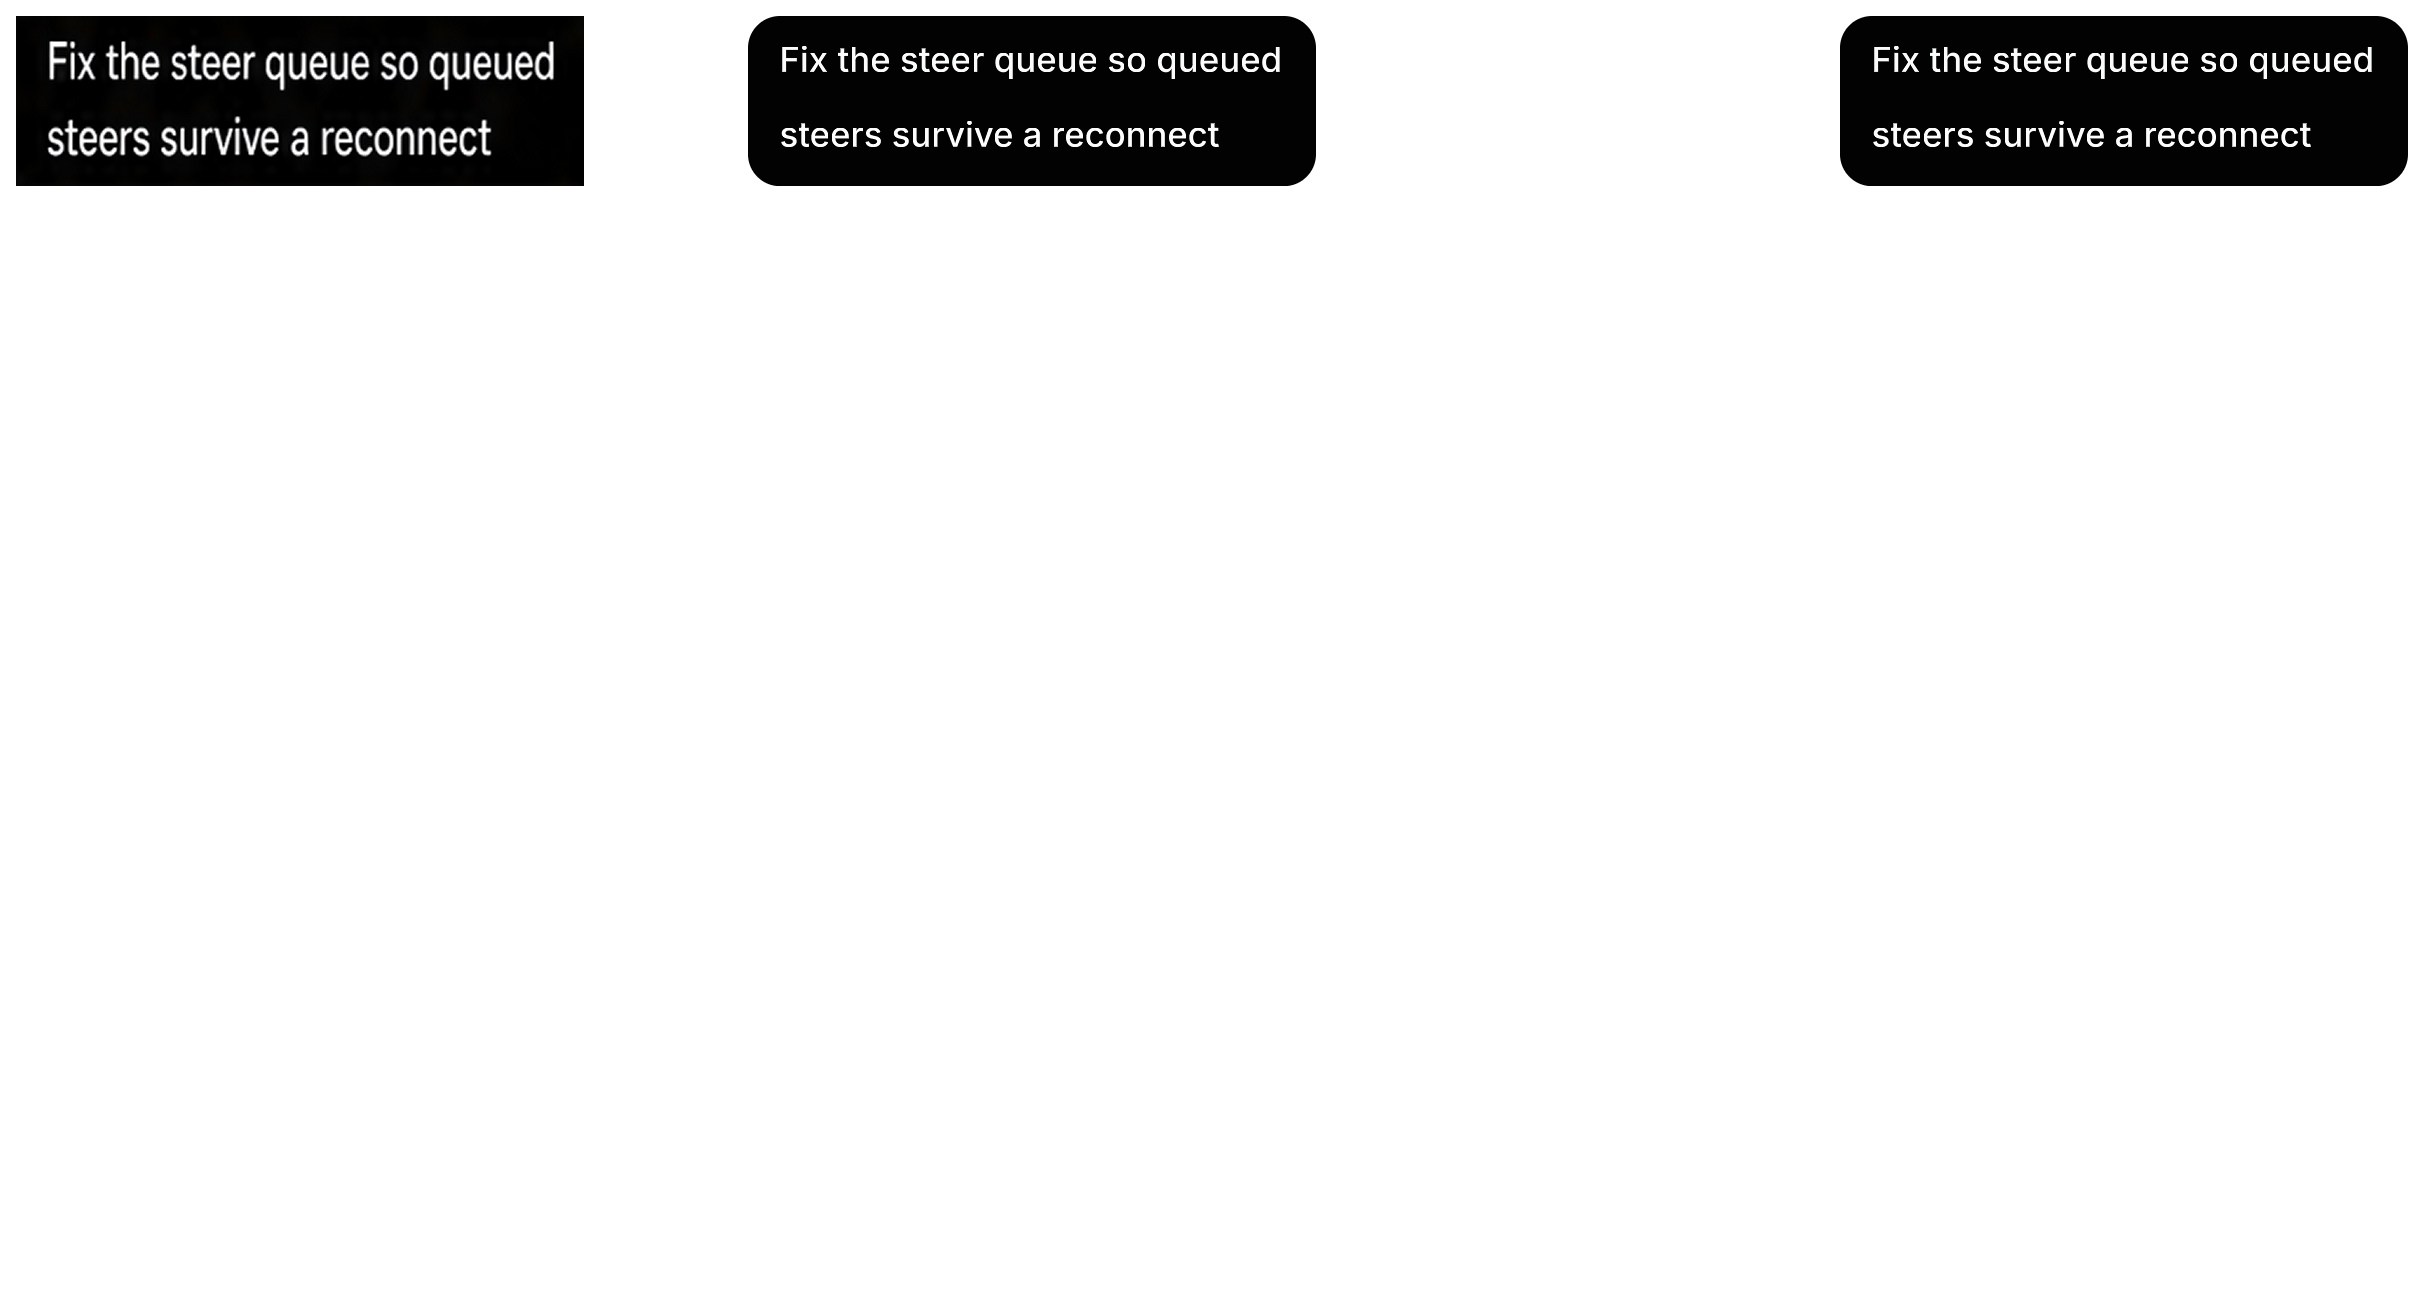
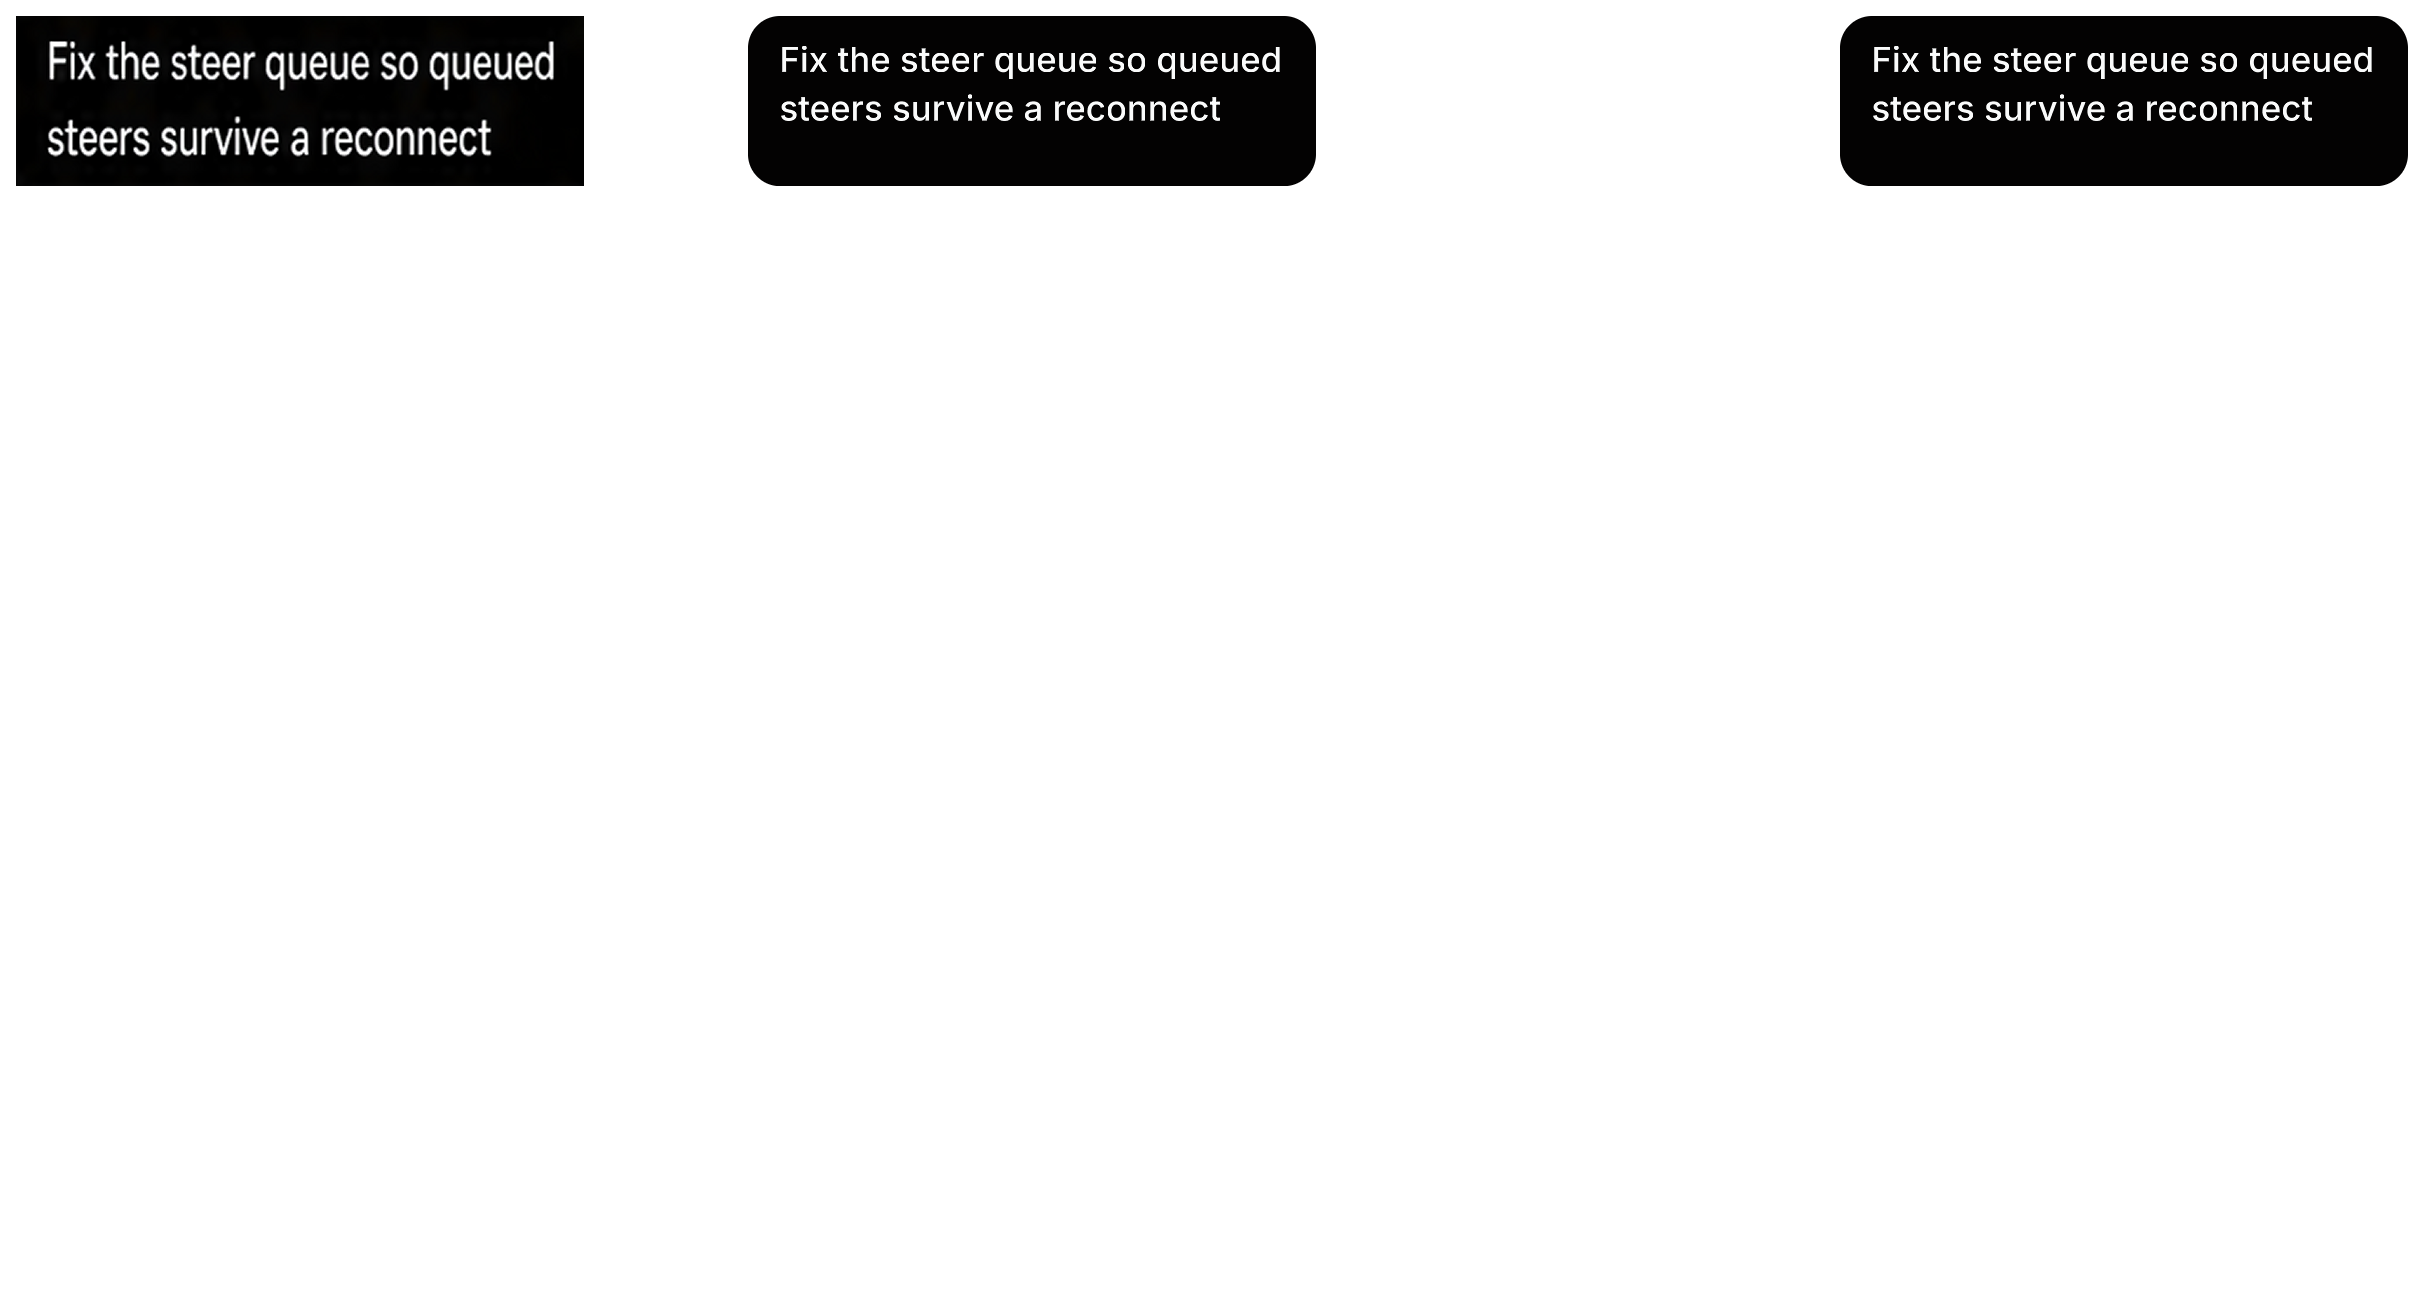
design(stage-b): apply the 1.4x wrap pitch to wrapped plain Text (#16e)
user-bubble long was still ~2x between its two lines: it was authored as two
pre-placed single-line Text labels, so the #16d flow clamp never reached it.

Renderer (tools/renderer-16e.patch):
- hoist a `single_line` binding in the Text/Input arm, then clamp a WRAPPING Text
  node's line pitch to min(line_height, size*1.4), the same rule the flow arm
  uses. Only wrapping Text is affected, so single-line text and flow regions (all
  approved scenes) are untouched.

Fixture (tools/render_variants.py):
- the bubble long variant becomes ONE wrapping Text node carrying the atlas's
  measured paragraph pitch, which the renderer then clamps.

Verified: bubble long pitch 37.5 -> 24.0 logical (1.38x the 17.4pt face; the
atlas is 1.44x) at 360 AND 540; the 5-patch chain replays on a clean clone to a
byte-identical design.rs; approved scenes stay byte-identical (0 changed).

Changed region(s): [[0.7735, 0.0625, 0.9592, 0.125], [0.3094, 0.0625, 0.495, 0.125]]

diff --git a/design/stage-b/conversation/tools/render_variants.py b/design/stage-b/conversation/tools/render_variants.py
@@ -158,9 +158,15 @@ VARIANTS = {
         "short": {"text": {"t01": "Retry the build"}, "drop": ["t02"],
                   # 15.72 padding + ~103 text + 15.72 padding, rounded to the atlas pitch
                   "flags": {"user_bubble": {"w": 135.0, "h": 50.2}}},
-        "long": {"text": {"t01": "Fix the steer queue so queued",
-                          "t02": "steers survive a reconnect"},
-                 "flags": {"user_bubble": {"h": 85.09}}},
+        # Card #16e: the atlas bubble is ONE wrapped paragraph, so the fixture is
+        # one wrapping Text node (not two pre-placed single lines). Its line_height
+        # is the ATLAS's measured paragraph pitch (the two lines sit 38px apart),
+        # which is what the renderer's 1.4x wrap rule then clamps.
+        "long": {"text": {"t01": "Fix the steer queue so queued steers survive a reconnect"},
+                 "drop": ["t02"],
+                 "flags": {"user_bubble": {"h": 85.09},
+                           "t01": {"variant": "wrap", "w": 252.6, "h": 63.0,
+                                   "line_height": 38.0}}},
     },
     "working-row": {"short": {"text": {"t03": "Working \u2022 3s"}},
                     "long": {"text": {"t03": "Working \u2022 12s"}}},
